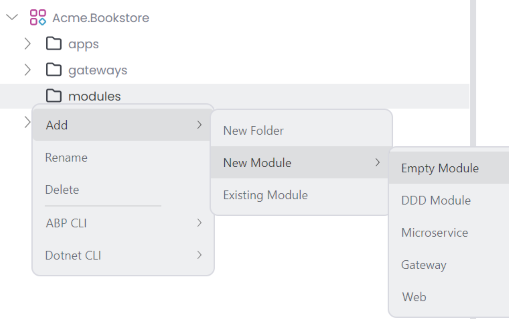
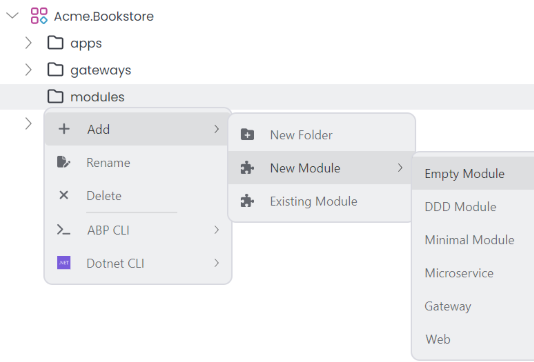
Add support for creating Minimal modules in solution explorer

diff --git a/docs/en/studio/solution-explorer.md b/docs/en/studio/solution-explorer.md
@@ -123,7 +123,7 @@ A [module](./concepts.md#module) is a sub-solution that can contains zero, one o
 
 ### Adding a New Empty Module
 
-Create a new module by clicking the *Add* -> *New Module* -> *Empty Module* button at the root of the solution or in the solution folder context menu. The *Microservice* solution template also includes *Microservice*, *Gateway*, and *Web* modules. Other solution templates, such as *Application (Layered)*, can only create *Empty*, and *DDD* modules.
+Create a new module by clicking the *Add* -> *New Module* -> *Empty Module* button at the root of the solution or in the solution folder context menu. The *Microservice* solution template also includes *Microservice*, *Gateway*, and *Web* modules. Other solution templates, such as *Application (Layered)*, can only create *Empty*, *DDD* and *Minimal* modules.
 
 ![create-new-module](./images/solution-explorer/create-new-module.png)
 
@@ -148,6 +148,10 @@ You can choose the database provider for your microservice module. Select one of
 When you create a microservice, you must edit some [configurations](../solution-templates/microservice/adding-new-microservices.md#configuring-the-appsettingsjson). If you select the *Enable integration* option, it automatically configures the required settings for the microservice to work with the gateway, web, and other modules.
 
 ![create-new-microservice-nolayers-enable-integration](./images/solution-explorer/create-new-microservice-nolayers-enable-integration.png)
+
+You can uncheck the *Include Tests* option if you don't want to include test projects in your microservice module. Click the *Create* button to add the microservice module to the solution.
+
+![create-new-microservice-nolayers-additional-options](./images/solution-explorer/create-new-microservice-nolayers-additional-options.png)
 
 After creating the *Microservice (service-nolayers)* module, it will be added to the solution, and you should see the following structure in the solution explorer.
 
